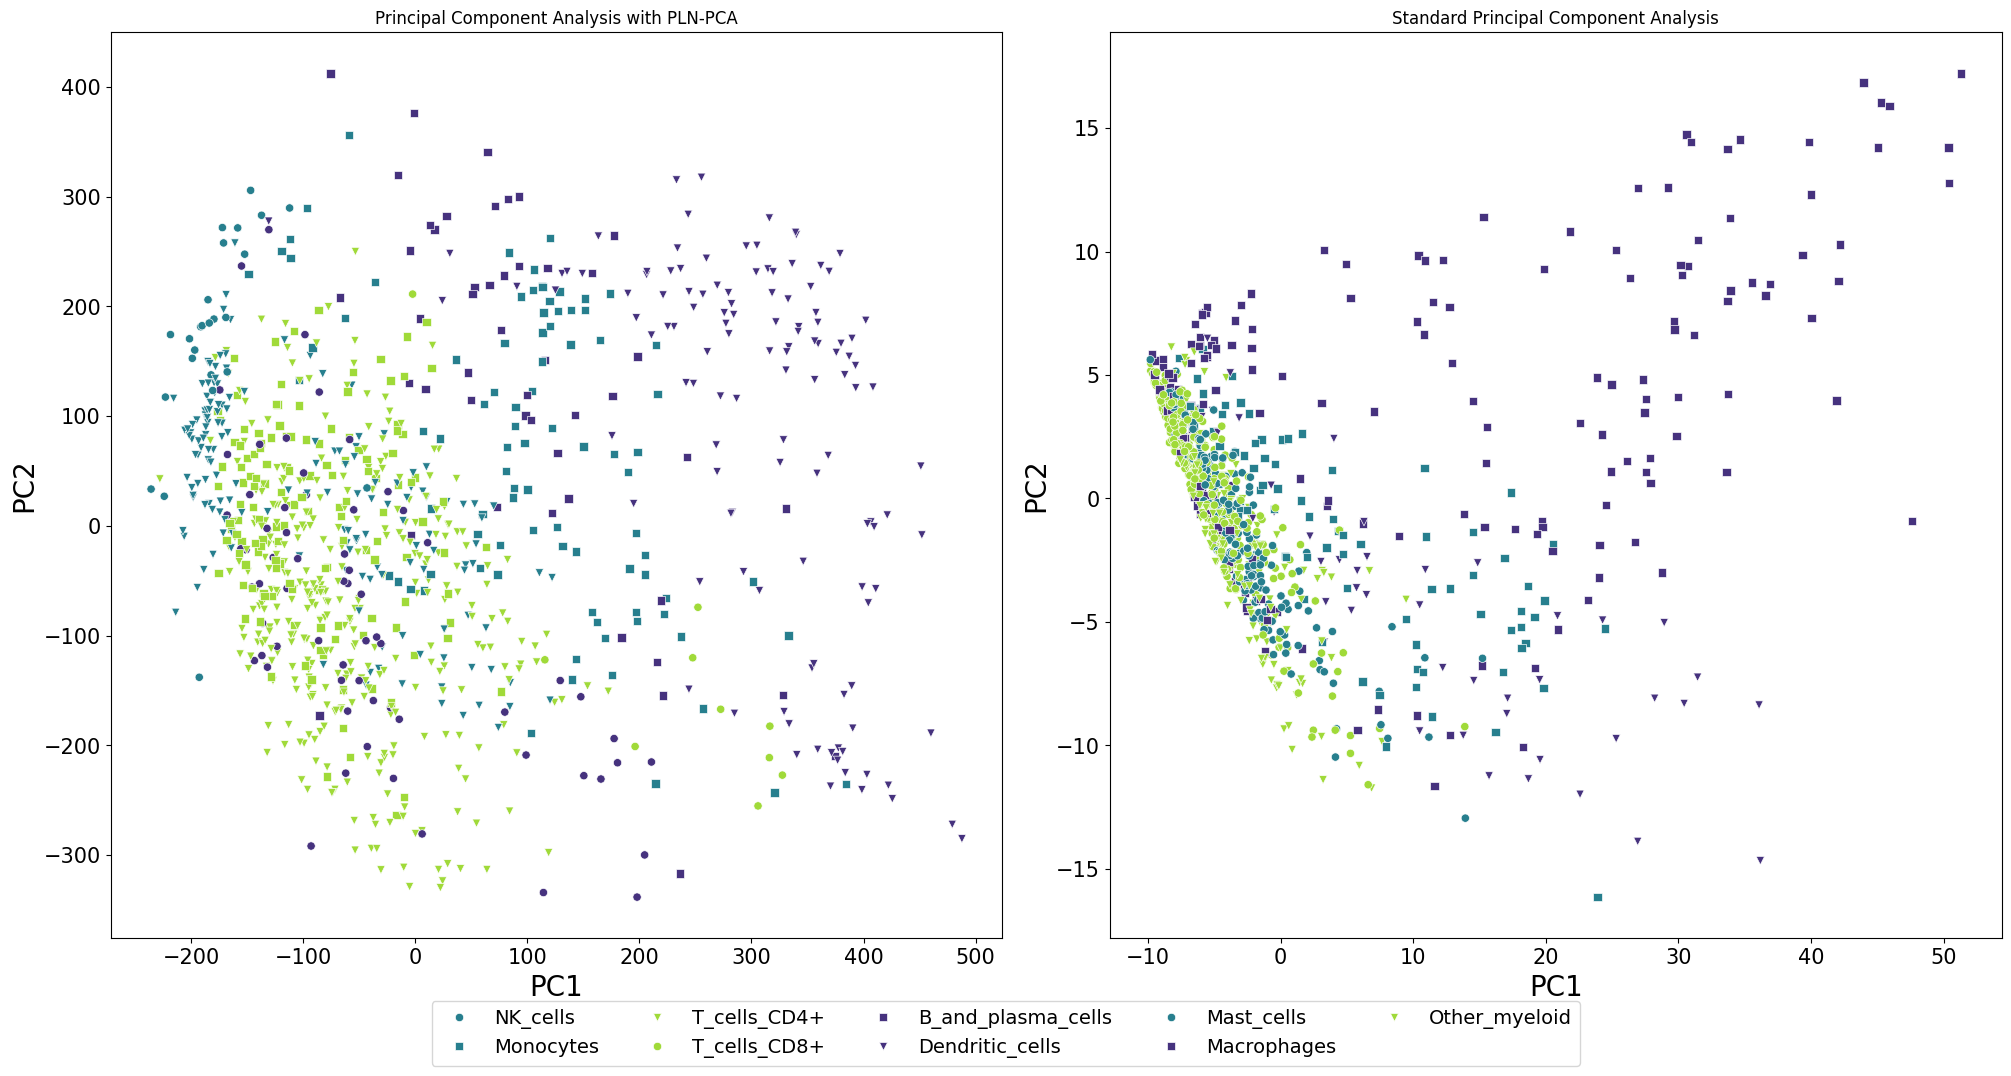
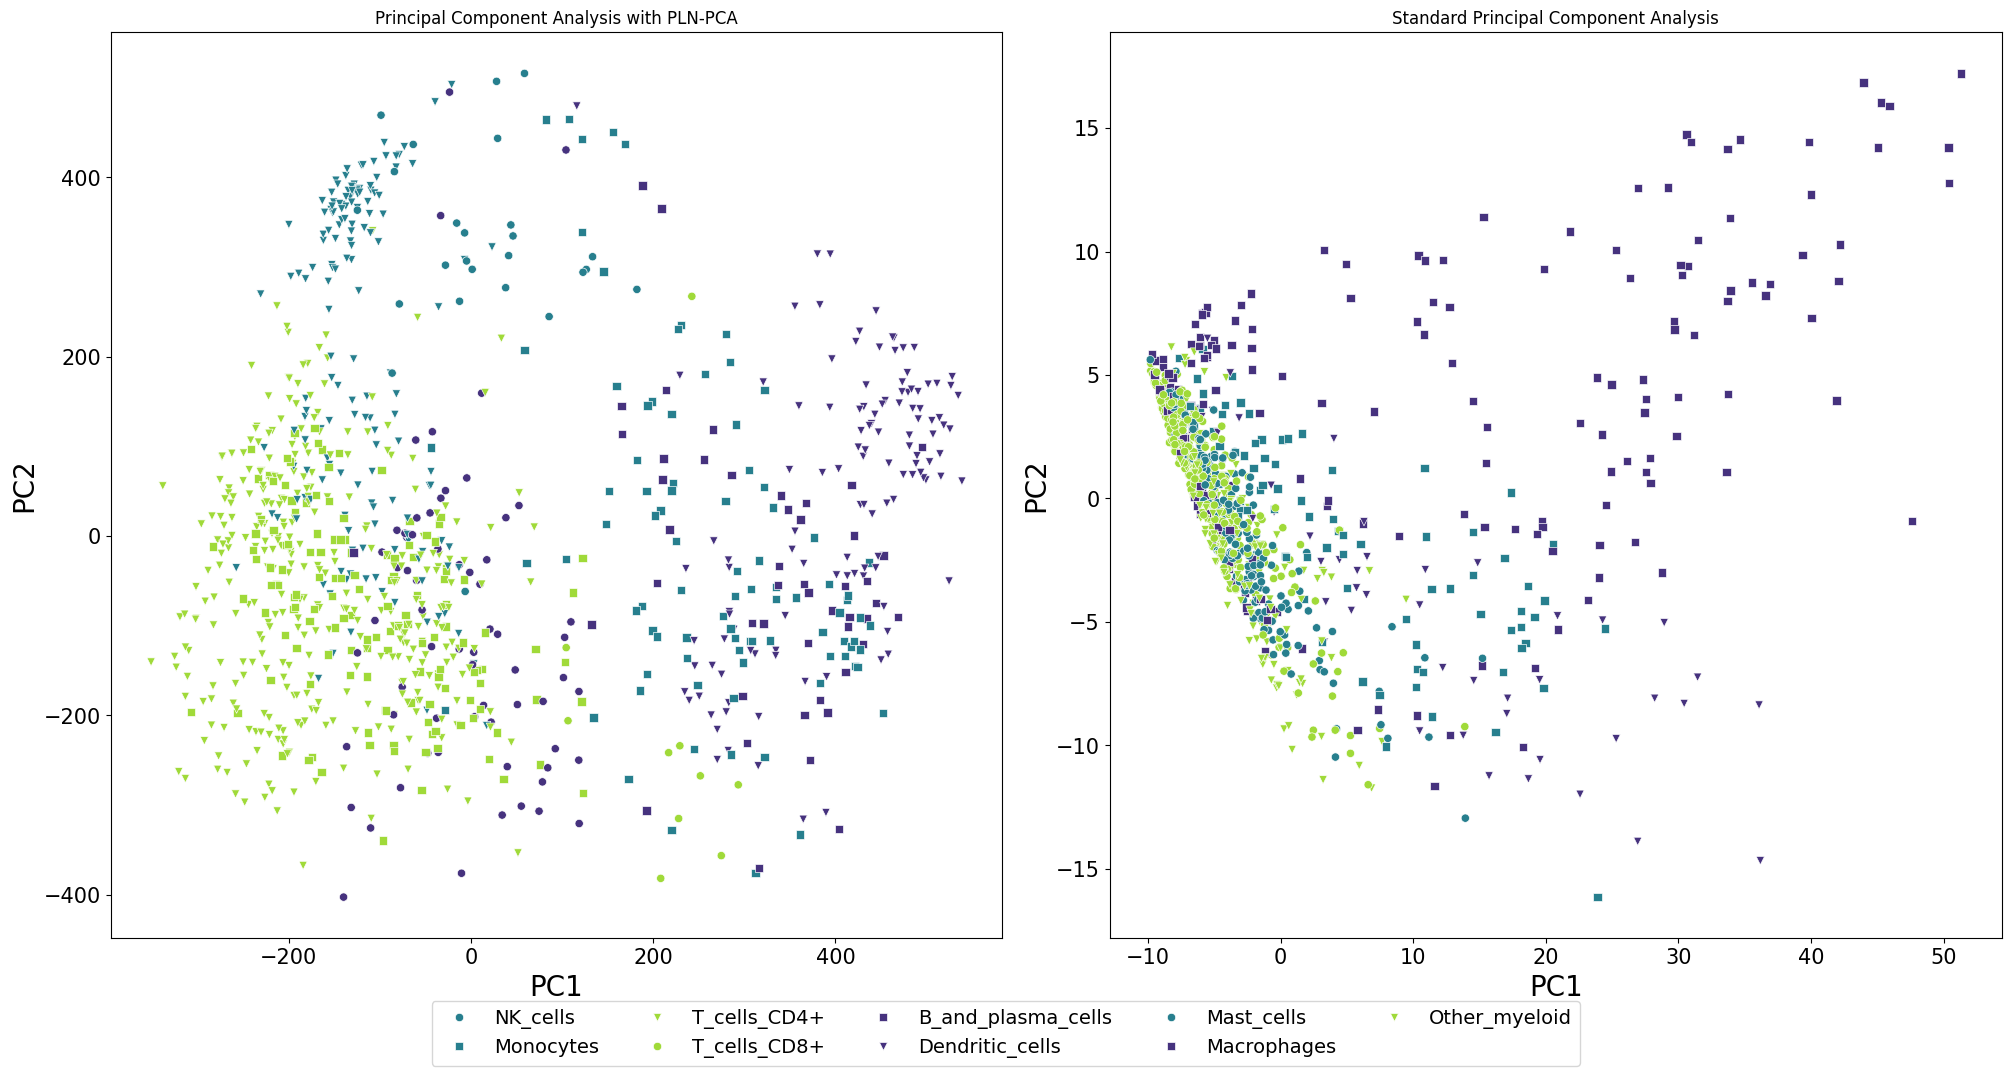
graphs with 5 PCs

diff --git a/pca.py b/pca.py
@@ -30,7 +30,7 @@ dict_colors = dict(zip(np.unique(GT), colors))
 
 plnpca = PlnPCA(Y)
 t = time.time()
-plnpca.fit(tol=0.001, verbose=True, nb_max_iteration=700)
+plnpca.fit(tol=0.0001, verbose=True, nb_max_iteration=700)
 print("time took pln:", (time.time() - t) / 60)
 
 # plnpca.show()
